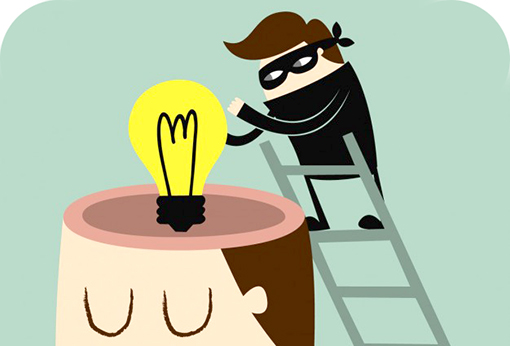
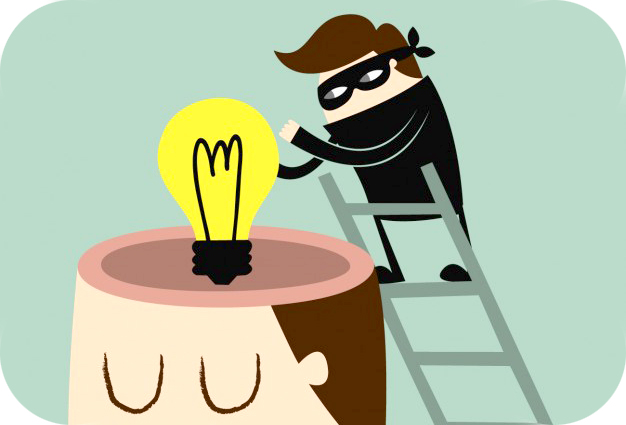
ajustes estilo

diff --git a/templates_c/083ab40df80b4176783f6bac0cfd03560ffa8e5c_0.file.login.tpl.php b/templates_c/083ab40df80b4176783f6bac0cfd03560ffa8e5c_0.file.login.tpl.php
@@ -1,18 +1,18 @@
 <?php
-/* Smarty version 3.1.33, created on 2018-10-19 04:06:11
+/* Smarty version 3.1.33, created on 2018-10-19 04:19:05
   from 'C:\xampp\htdocs\TP_especial_web2\templates\login.tpl' */
 
 /* @var Smarty_Internal_Template $_smarty_tpl */
 if ($_smarty_tpl->_decodeProperties($_smarty_tpl, array (
   'version' => '3.1.33',
-  'unifunc' => 'content_5bc93c131cc239_82430917',
+  'unifunc' => 'content_5bc93f19013c33_80302775',
   'has_nocache_code' => false,
   'file_dependency' => 
   array (
     '083ab40df80b4176783f6bac0cfd03560ffa8e5c' => 
     array (
       0 => 'C:\\xampp\\htdocs\\TP_especial_web2\\templates\\login.tpl',
-      1 => 1539914768,
+      1 => 1539915538,
       2 => 'file',
     ),
   ),
@@ -23,7 +23,7 @@ if ($_smarty_tpl->_decodeProperties($_smarty_tpl, array (
     'file:footer.tpl' => 1,
   ),
 ),false)) {
-function content_5bc93c131cc239_82430917 (Smarty_Internal_Template $_smarty_tpl) {
+function content_5bc93f19013c33_80302775 (Smarty_Internal_Template $_smarty_tpl) {
 $_smarty_tpl->_subTemplateRender("file:header.tpl", $_smarty_tpl->cache_id, $_smarty_tpl->compile_id, 0, $_smarty_tpl->cache_lifetime, array(), 0, false);
 $_smarty_tpl->_subTemplateRender("file:navLogin.tpl", $_smarty_tpl->cache_id, $_smarty_tpl->compile_id, 0, $_smarty_tpl->cache_lifetime, array(), 0, false);
 ?>
@@ -46,13 +46,11 @@ $_smarty_tpl->_subTemplateRender("file:navLogin.tpl", $_smarty_tpl->cache_id, $_
       </form><br><br>
       <form action="invitado" method="get">
         <button type="submit" class="boton btn">Invitado</button>
-      </form>
+      </form><br><br>
     </div>
     <div class="col">
-      <img src="images/ideas.jpg" alt="personaje poniendo un foco en una cabeza">
+      <img src="images/ideasProntas.jpg" alt="personaje poniendo un foco en una cabeza">
     </div>
-    <section class="container">
-    </section>
   </div>
 </section>
 <?php $_smarty_tpl->_subTemplateRender("file:footer.tpl", $_smarty_tpl->cache_id, $_smarty_tpl->compile_id, 0, $_smarty_tpl->cache_lifetime, array(), 0, false);
